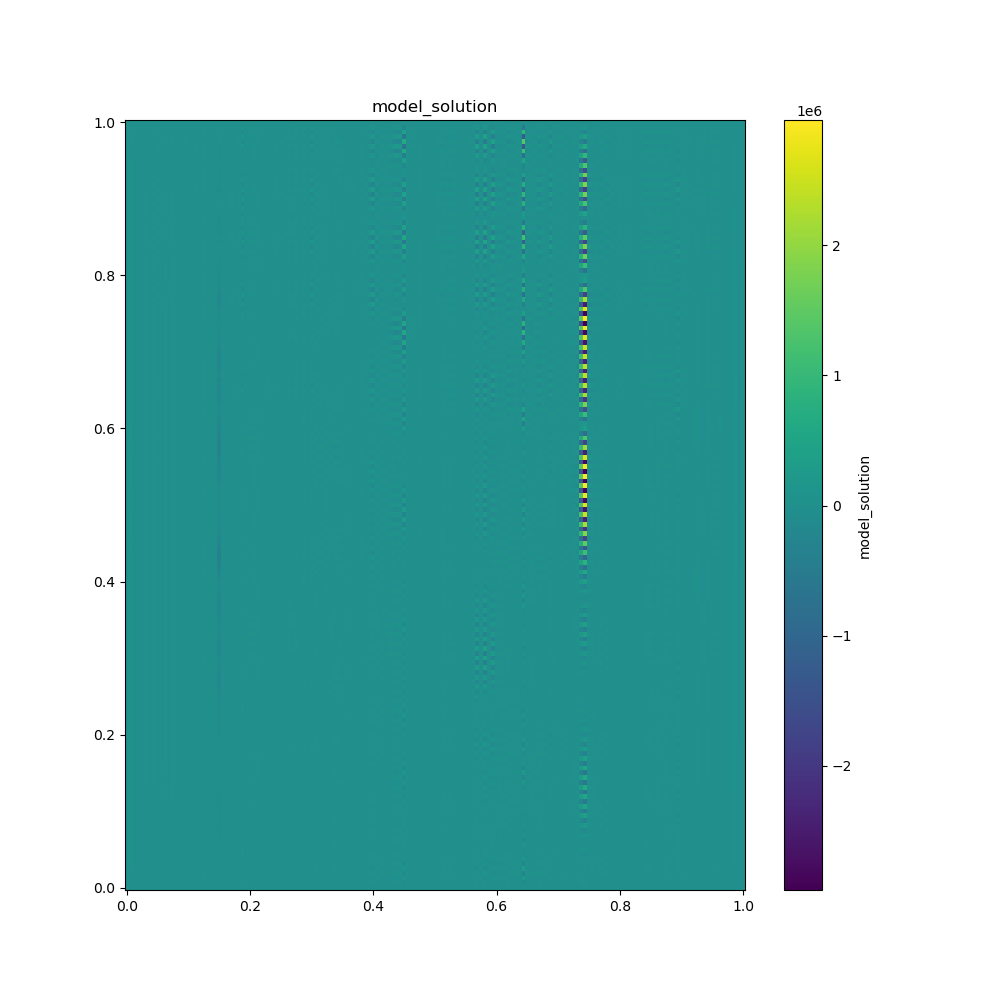
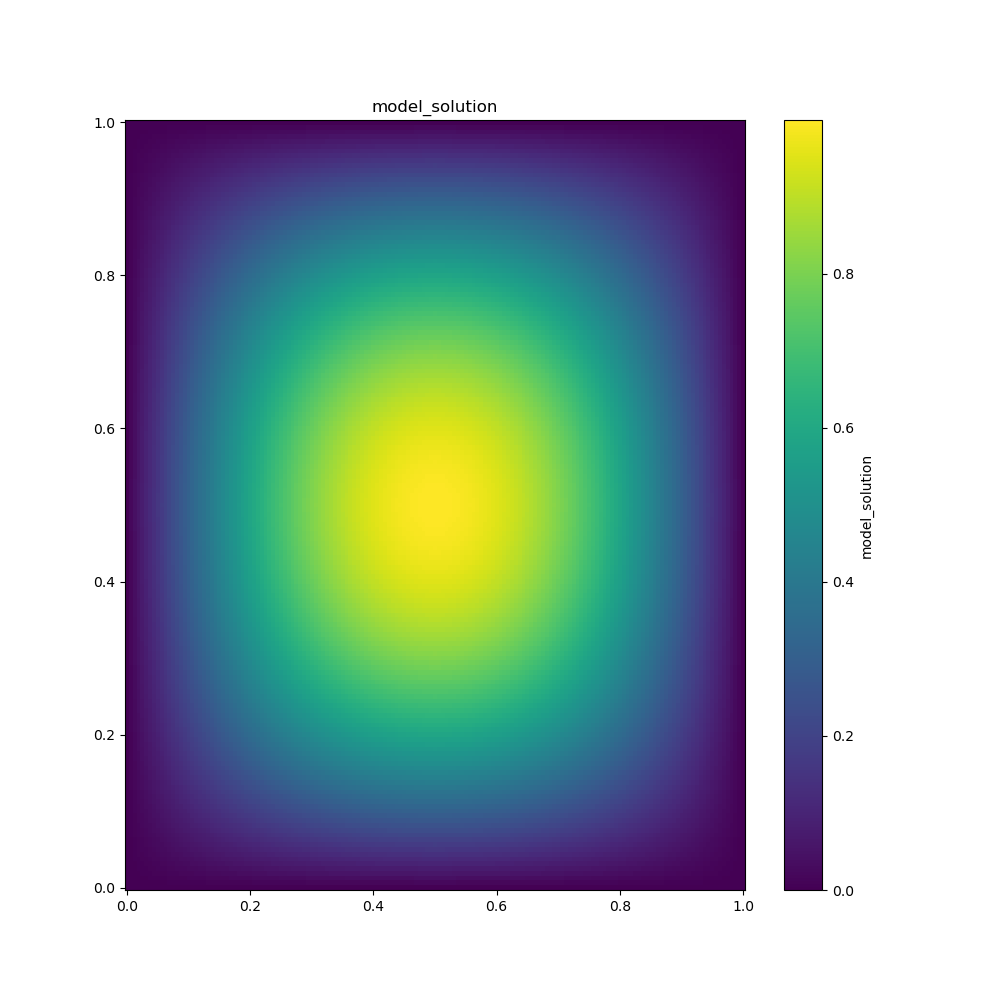
working>?

diff --git a/AI4Flood/richards_functions.py b/AI4Flood/richards_functions.py
@@ -174,7 +174,7 @@ def dirichlet_boundary_condition(u, g):
     return uu.to(torch.float64)
 
 class AIRichards(nn.Module):
-    def __init__(self, w1, wm, bias_initializer, x, y, theta, kappa, g, f):
+    def __init__(self, w1, wm, bias_initializer, x, y, theta, kappa, g, f, diag):
         super(AIRichards, self).__init__()
         self.diff = nn.Conv2d(1, 1, kernel_size=3, stride=1, padding=0)
         self.cmm  = nn.Conv2d(1, 1, kernel_size=3, stride=1, padding=0)
@@ -194,7 +194,9 @@ class AIRichards(nn.Module):
         self.kappa = kappa
 
         self.g = g
-        self.f = f    
+        self.f = f
+
+        self.diag = diag    
     '''
 
     def forward(self, uold, t, dt, imax=100):
@@ -231,9 +233,8 @@ class AIRichards(nn.Module):
     '''
     def forward(self, uold, t, dt, imax=100):
         """Here we use a Jacobi iteration with an L method to solve richard's equation."""
-        L = 4 # lipschitz constant for L method
+        L = 10 # lipschitz constant for L method
         omega = 0.1 # damping parameter
-        #uuold   = dirichlet_boundary_condition(uold, u_exact(self.x, self.y, t)) # apply dirichlet bc to u^n-1
 
         uj = uold.clone()
 
@@ -242,9 +243,10 @@ class AIRichards(nn.Module):
 
         for j in range(imax):
 
-            uuj = dirichlet_boundary_condition(uj, bc_new)
             uiplus = torch.zeros_like(uj, device=device) # set up jacobi iteration
             ui = uj.clone()
+
+            uuj = dirichlet_boundary_condition(uj, bc_new)
 
             # Right hand side of Jacobi iteration - fixed
             b = L * uj + dt * f_new + (uold - uj) # + self.cmm(self.theta(uuold) - self.theta(uuj))
@@ -252,14 +254,12 @@ class AIRichards(nn.Module):
             for i in range(imax):
                 uui = dirichlet_boundary_condition(ui, bc_new) # apply dirichlet boundary condition
 
-                div_k_grad_ui = - 0.5 * (self.diff(self.kappa(uuj) * uui) + self.kappa(uj) * self.diff(uui) - ui * self.diff(self.kappa(uuj)))
+                div_k_grad_ui =  - 0.5 * (self.diff(self.kappa(uuj) * uui) + self.kappa(uj) * self.diff(uui) - ui * self.diff(self.kappa(uuj)))
                 A = L * ui - dt * div_k_grad_ui
+                D = self.diag * dt + L
 
-                D = torch.diagonal(A, dim1=2, dim2=3)
-
-                uiplus.data.copy_(ui.data  + omega * (b - A) / D) # Jacobi iteration
+                uiplus = (ui  + omega * (b - A) / D).clone() # Jacobi iteration
                 uiplus = apply_zero_bcs(uiplus)
-                print(f"Error is {torch.sqrt(torch.mean((uiplus - ui)**2))}")
                 
                 assert torch.isinf(torch.sqrt(torch.mean((uiplus - ui)**2))) == False
                 assert torch.isnan(torch.sqrt(torch.mean((uiplus - ui)**2))) == False
@@ -282,34 +282,26 @@ class AIRichards(nn.Module):
                 print(f"Outer iteration has not converged")
                 break
 
-            #print(f"L2 Difference between uj_plus and u_j is {self.loss(ujplus, uj)}")
-
             uj = uiplus.clone()        
 
         return uiplus
     
     '''
+    
     def forward(self, uold, t, dt, imax=100):
         """Simple explicit scheme"""
-        L = 2 # lipschitz constant for L method
-        omega = 0.2 # damping parameter
-        #uuold   = dirichlet_boundary_condition(uold, u_exact(self.x, self.y, t)) # apply dirichlet bc to u^n-1
 
         uj = uold.clone()
-
-        bc_new = self.g(self.x, self.y, t + dt)
-        f_new = self.f(self.x, self.y, t + dt)[1:-1, 1:-1]
+        bc_new = self.g(self.x, self.y, t + dt)            # boundary conditions
+        f_new = self.f(self.x, self.y, t + dt)[1:-1, 1:-1] # RHS
 
         uuj = dirichlet_boundary_condition(uj, bc_new)
-        #plot_tensor(self.x, self.y, uuj[0][0], "boundary condition")
-
         div_k_grad_ui = - 0.5 * (self.diff(self.kappa(uuj) * uuj) + self.kappa(uj) * self.diff(uuj) - uj * self.diff(self.kappa(uuj)))
         u_new = uold + dt * div_k_grad_ui + dt * f_new
 
-        #plot_tensor(self.x[1:-1, 1:-1], self.y[1:-1, 1:-1], u_new[0][0], "boundary condition 2 ")
-
         return apply_zero_bcs(u_new)
-        '''
+    '''
+        
     
     
 class AIRichardsPC(nn.Module):
